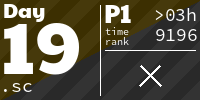
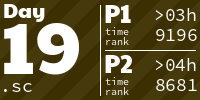
feat(day19): part 2

diff --git a/README.md b/README.md
@@ -2,7 +2,7 @@
 
 <!-- AOC TILES BEGIN -->
 <h1 align="center">
-  2024 - 37 ⭐ - SuperCollider
+  2024 - 38 ⭐ - SuperCollider
 </h1>
 <a href="2024/day01.sc">
   <img src=".aoc_tiles/tiles/2024/01.png" width="161px">
